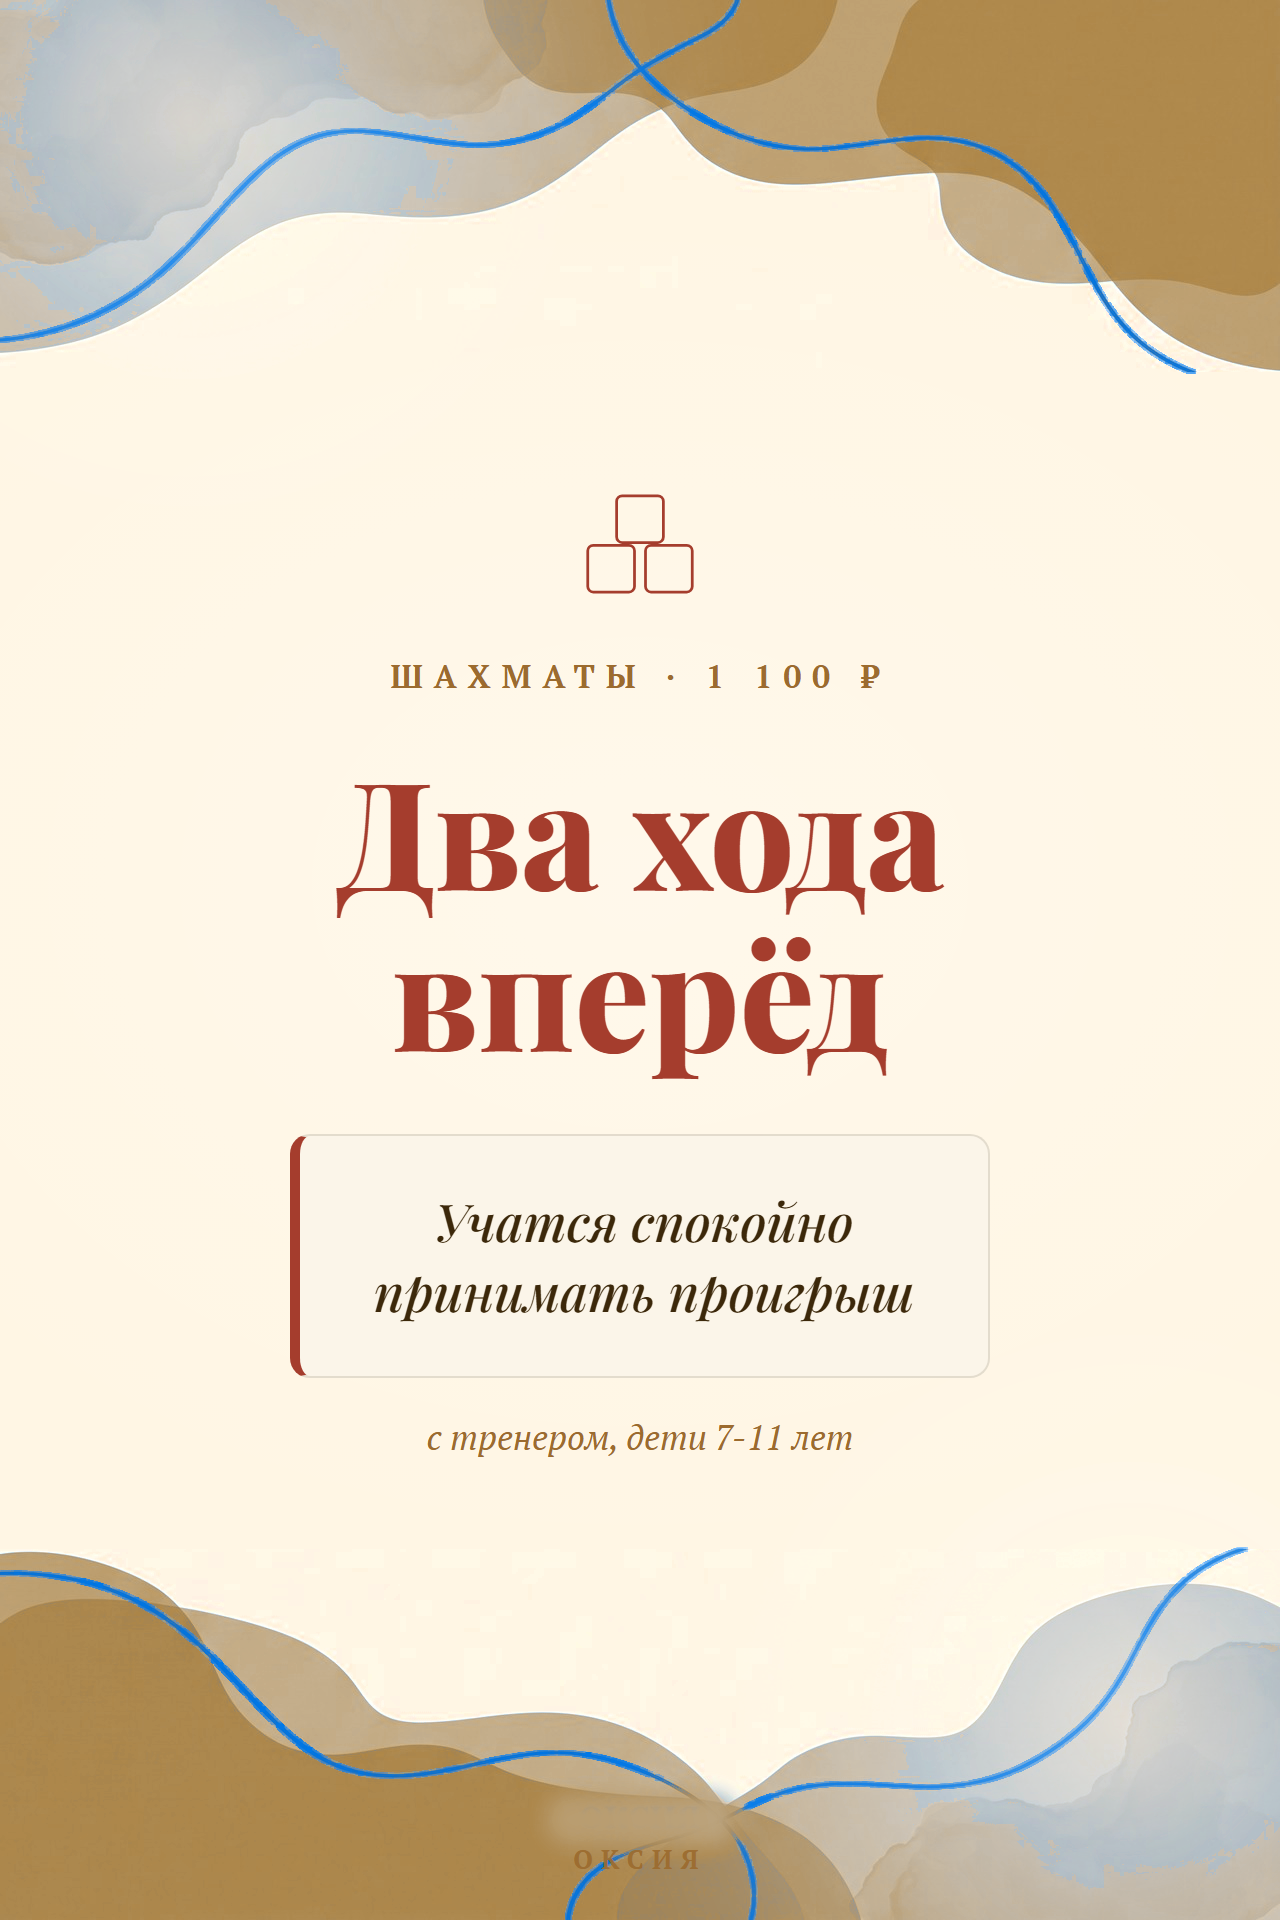
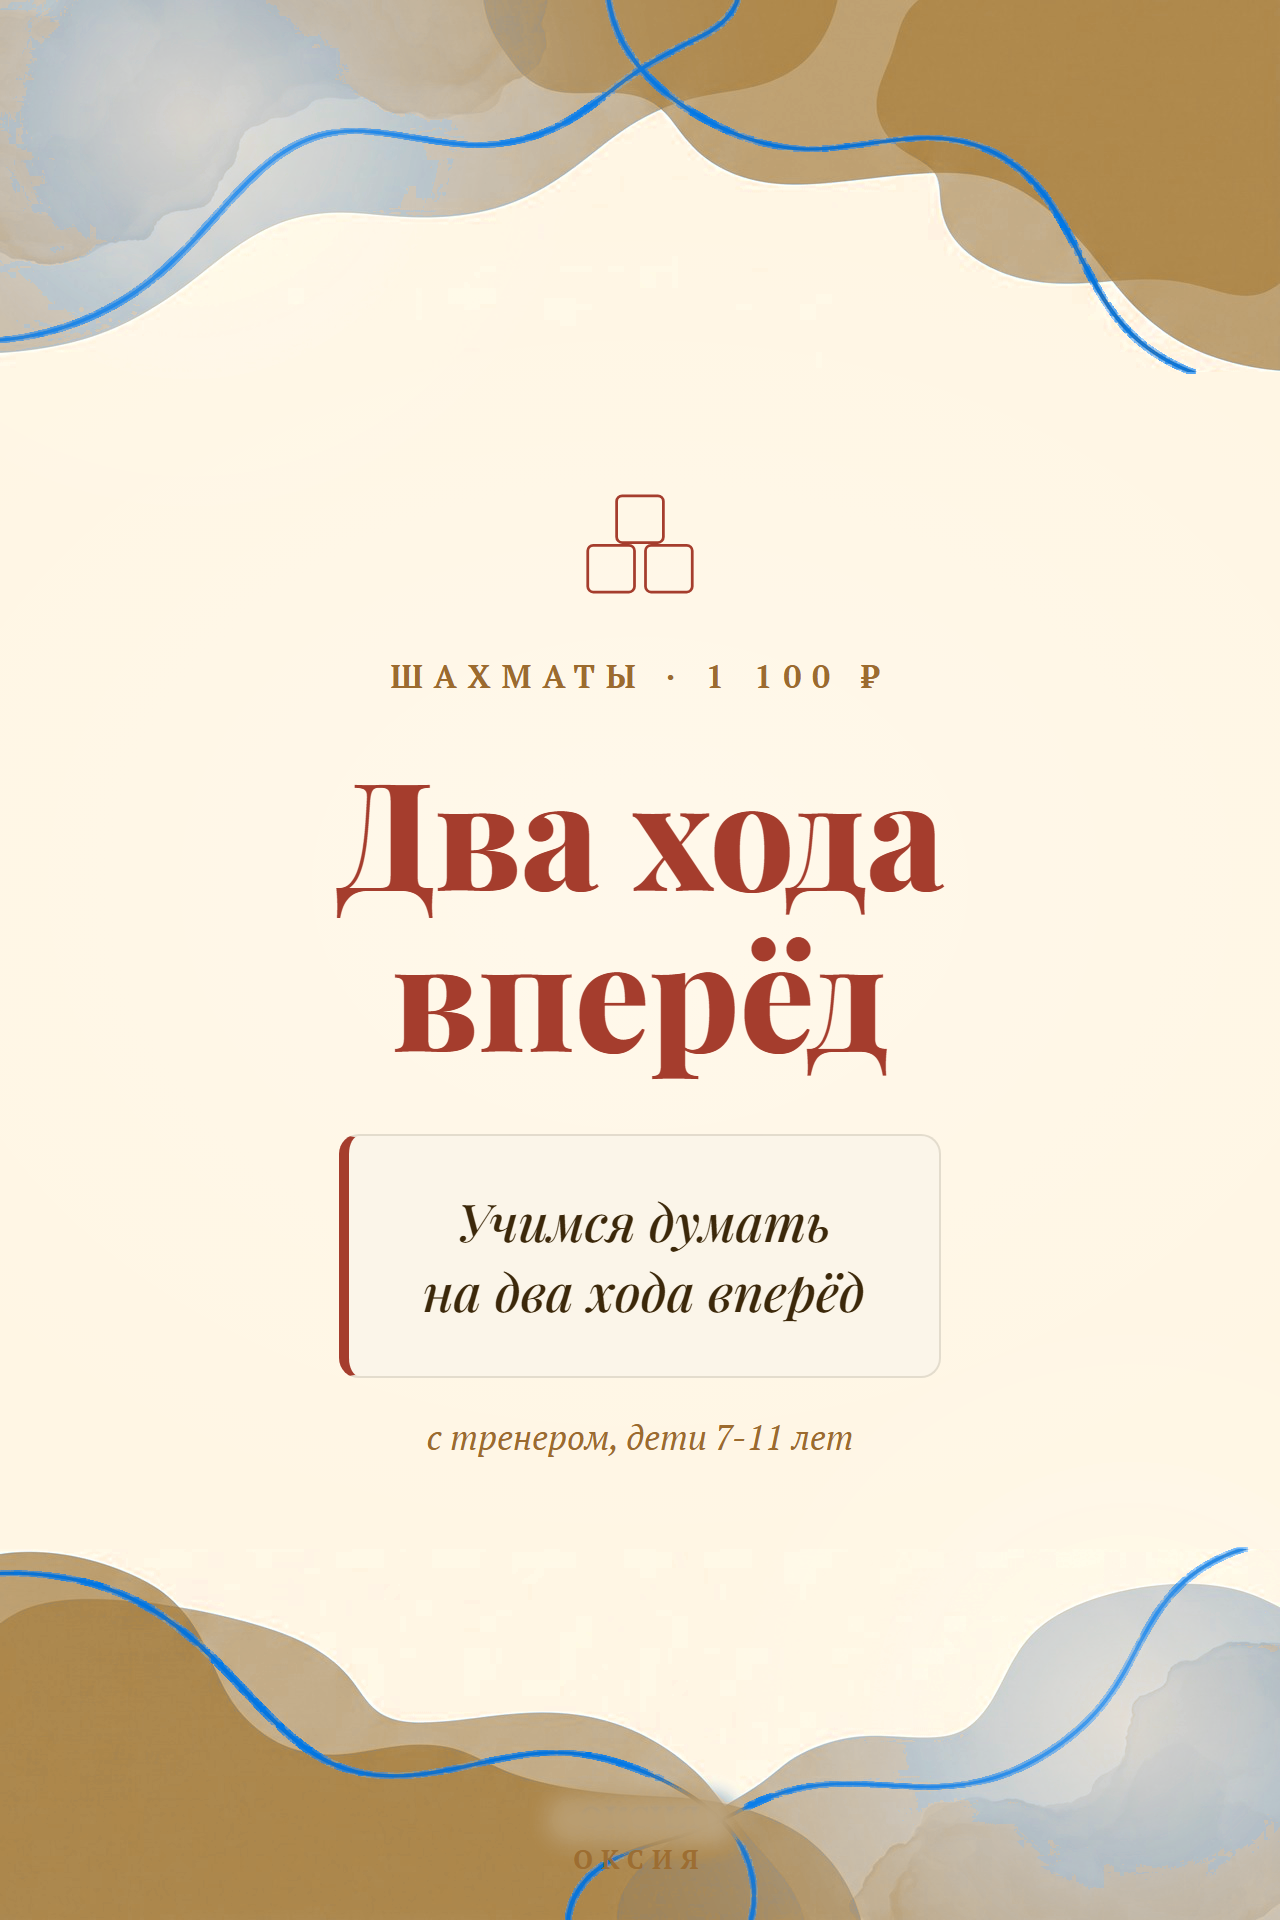
10 правок по замечаниям: слайды 23,25,26,27,28,30,34,35,37,38
- 23: логопед — "ставим звуки, запускаем речь"
- 25: каллиграфия — убраны технические детали, добавлена выгода "красивый почерк"
- 26: шахматы — chip "учимся думать на два хода вперёд"
- 27: лепка — "готовой работой" вместо "вещью"
- 28: творческое чтение — "что выбрали дети", переписан cap
- 30: "подберём расписание, сориентируем по цене" вместо неестественного "скажем"
- 34: "Профессиональный тренер" (плюс уменьшен шрифт, слово не помещалось)
- 35: полностью переписан — "один педагог — один предмет"
- 37: "До оплаты" вместо "До записи", переписан lead
- 38: "23 живых отзыва от родителей, без накруток и ботов"

Changed region(s): [[0.2188, 0.5938, 0.7188, 0.7188]]

diff --git a/story-preview/_build/slide-bright.html b/story-preview/_build/slide-bright.html
@@ -299,7 +299,7 @@ const S = {
   <div class="num">2 000 ₽</div>
   <div class="permo">за занятие</div>
   <div class="hair"></div>
-  <div class="lead">Ставят именно тот звук,<br>что не даётся. Дети 3-10 лет</div>` },
+  <div class="lead">Ставим звуки, запускаем речь.<br>Дети 3-10 лет</div>` },
 
 24:{ bg:'tb-bright-gold', align:'left', accent:'var(--blue-muted)', icon:I.book, isize:'150px', html:`
   <div class="kick">Репетитор</div>
@@ -313,23 +313,23 @@ const S = {
   <div class="num">9 900 ₽</div>
   <div class="permo">курс, 9 занятий</div>
   <div class="hair"></div>
-  <div class="lead">Наклон, нажим, соединения букв.<br>Дети 8-11 лет</div>` },
+  <div class="lead">Красивый, аккуратный почерк.<br>Дети 8-11 лет</div>` },
 
 26:{ bg:'tb-bright-gold', accent:'var(--red-muted)', icon:I.blocks, isize:'132px', ds:'150px', html:`
   <div class="kick">Шахматы · 1 100 ₽</div>
   <h1 class="disp">Два хода<br>вперёд</h1>
-  <div class="chip">Учатся спокойно<br>принимать проигрыш</div>
+  <div class="chip">Учимся думать<br>на два хода вперёд</div>
   <div class="cap">с тренером, дети 7-11 лет</div>` },
 
 27:{ bg:'tb-bright', align:'left', accent:'var(--blue-muted)', icon:I.palette, isize:'150px', ds:'150px', html:`
   <div class="kick">Лепка из глины · 1 100 ₽</div>
   <h1 class="disp">Руки заняты<br>делом</h1>
-  <div class="lead">Уходит домой с готовой<br>вещью. Дети 7-13 лет</div>` },
+  <div class="lead">Уходит домой с готовой<br>работой. Дети 7-13 лет</div>` },
 
 28:{ bg:'tb-bright-gold', accent:'var(--green-muted)', icon:I.book, isize:'150px', ds:'116px', html:`
   <div class="kick">Творческое чтение · 1 100 ₽</div>
-  <h1 class="disp">Читаем то,<br>что выбрал сам</h1>
-  <div class="cap">обсуждаем книгу и мнение ребёнка о ней. Дети 6-10 лет</div>` },
+  <h1 class="disp">Читаем то,<br>что выбрали дети</h1>
+  <div class="cap">обсуждаем книги, слышим и принимаем мнение каждого. Дети 6-10 лет</div>` },
 
 29:{ bg:'tb-bright', accent:'var(--blue-muted)', icon:I.hallmark, isize:'140px', ds:'120px', html:`
   <div class="kick">Формат</div>
@@ -341,7 +341,7 @@ const S = {
 30:{ bg:'tb-bright', align:'left', accent:'var(--red-muted)', icon:I.bell, isize:'150px', ds:'150px', html:`
   <div class="kick">Как записаться</div>
   <h1 class="disp">Выберите<br>занятие</h1>
-  <div class="lines">Скажем расписание и цену по нему<br>Васильевский остров, 16-я линия, 7</div>
+  <div class="lines">Подберём расписание, сориентируем по цене<br>Васильевский остров, 16-я линия, 7</div>
   <div class="phone">+7 (921) 556-07-24</div>
   <div class="btn">Записаться</div>` },
 
@@ -356,16 +356,16 @@ const S = {
   <h1 class="disp">Один ребёнок,<br>один звук</h1>
   <div class="lead">Индивидуально, под конкретную<br>причину. Дети 3-10 лет</div>` },
 
-34:{ bg:'tb-bright-gold', accent:'var(--green-muted)', icon:I.blocks, isize:'132px', ds:'150px', html:`
+34:{ bg:'tb-bright-gold', accent:'var(--green-muted)', icon:I.blocks, isize:'132px', ds:'96px', html:`
   <div class="kick">Шахматы</div>
-  <h1 class="disp">Отдельный<br>тренер</h1>
+  <h1 class="disp">Профессиональный<br>тренер</h1>
   <div class="sub">регулярные занятия с понятным прогрессом</div>
   <div class="cap">от урока к уроку виден рост</div>` },
 
 35:{ bg:'tb-bright', accent:'var(--blue-muted)', icon:I.people, isize:'182px', ds:'112px', html:`
   <div class="kick">Специализация</div>
-  <h1 class="disp">У каждого своё<br>направление</h1>
-  <div class="cap">логопед, репетитор, тренер, педагоги школы</div>` },
+  <h1 class="disp">Один педагог —<br>один предмет</h1>
+  <div class="cap">логопед, репетитор, тренер по шахматам — у каждого своя специализация</div>` },
 
 36:{ bg:'tb-bright-gold', accent:'var(--red-muted)', icon:I.phone, isize:'128px', ds:'116px', html:`
   <div class="kick">Связь с родителями</div>
@@ -374,14 +374,14 @@ const S = {
   <div class="chip">Пишете педагогу<br>вашего ребёнка</div>` },
 
 37:{ bg:'tb-bright-gold', align:'left', accent:'var(--red-muted)', icon:I.person, isize:'150px', ds:'126px', html:`
-  <div class="kick">До записи</div>
+  <div class="kick">До оплаты</div>
   <h1 class="disp">Прийти<br>познакомиться</h1>
-  <div class="lead">Посмотреть занятие<br>и педагога, потом решать</div>` },
+  <div class="lead">Посмотреть занятие, пообщаться<br>с педагогом и принять решение</div>` },
 
 38:{ bg:'tb-bright', accent:'var(--green-muted)', icon:I.bookcheck, isize:'150px', ds:'128px', html:`
   <div class="kick">Отзывы</div>
-  <h1 class="disp">Пишут сами<br>родители</h1>
-  <div class="cap">прямо на карточке ОКСИИ, никто их не редактирует</div>` },
+  <h1 class="disp">23 живых<br>отзыва</h1>
+  <div class="cap">от родителей, без накруток и ботов</div>` },
 
 39:{ bg:'tb-bright-gold', align:'left', accent:'var(--blue-muted)', icon:I.steps, isize:'128px', ds:'140px', html:`
   <div class="kick">Первый шаг</div>
